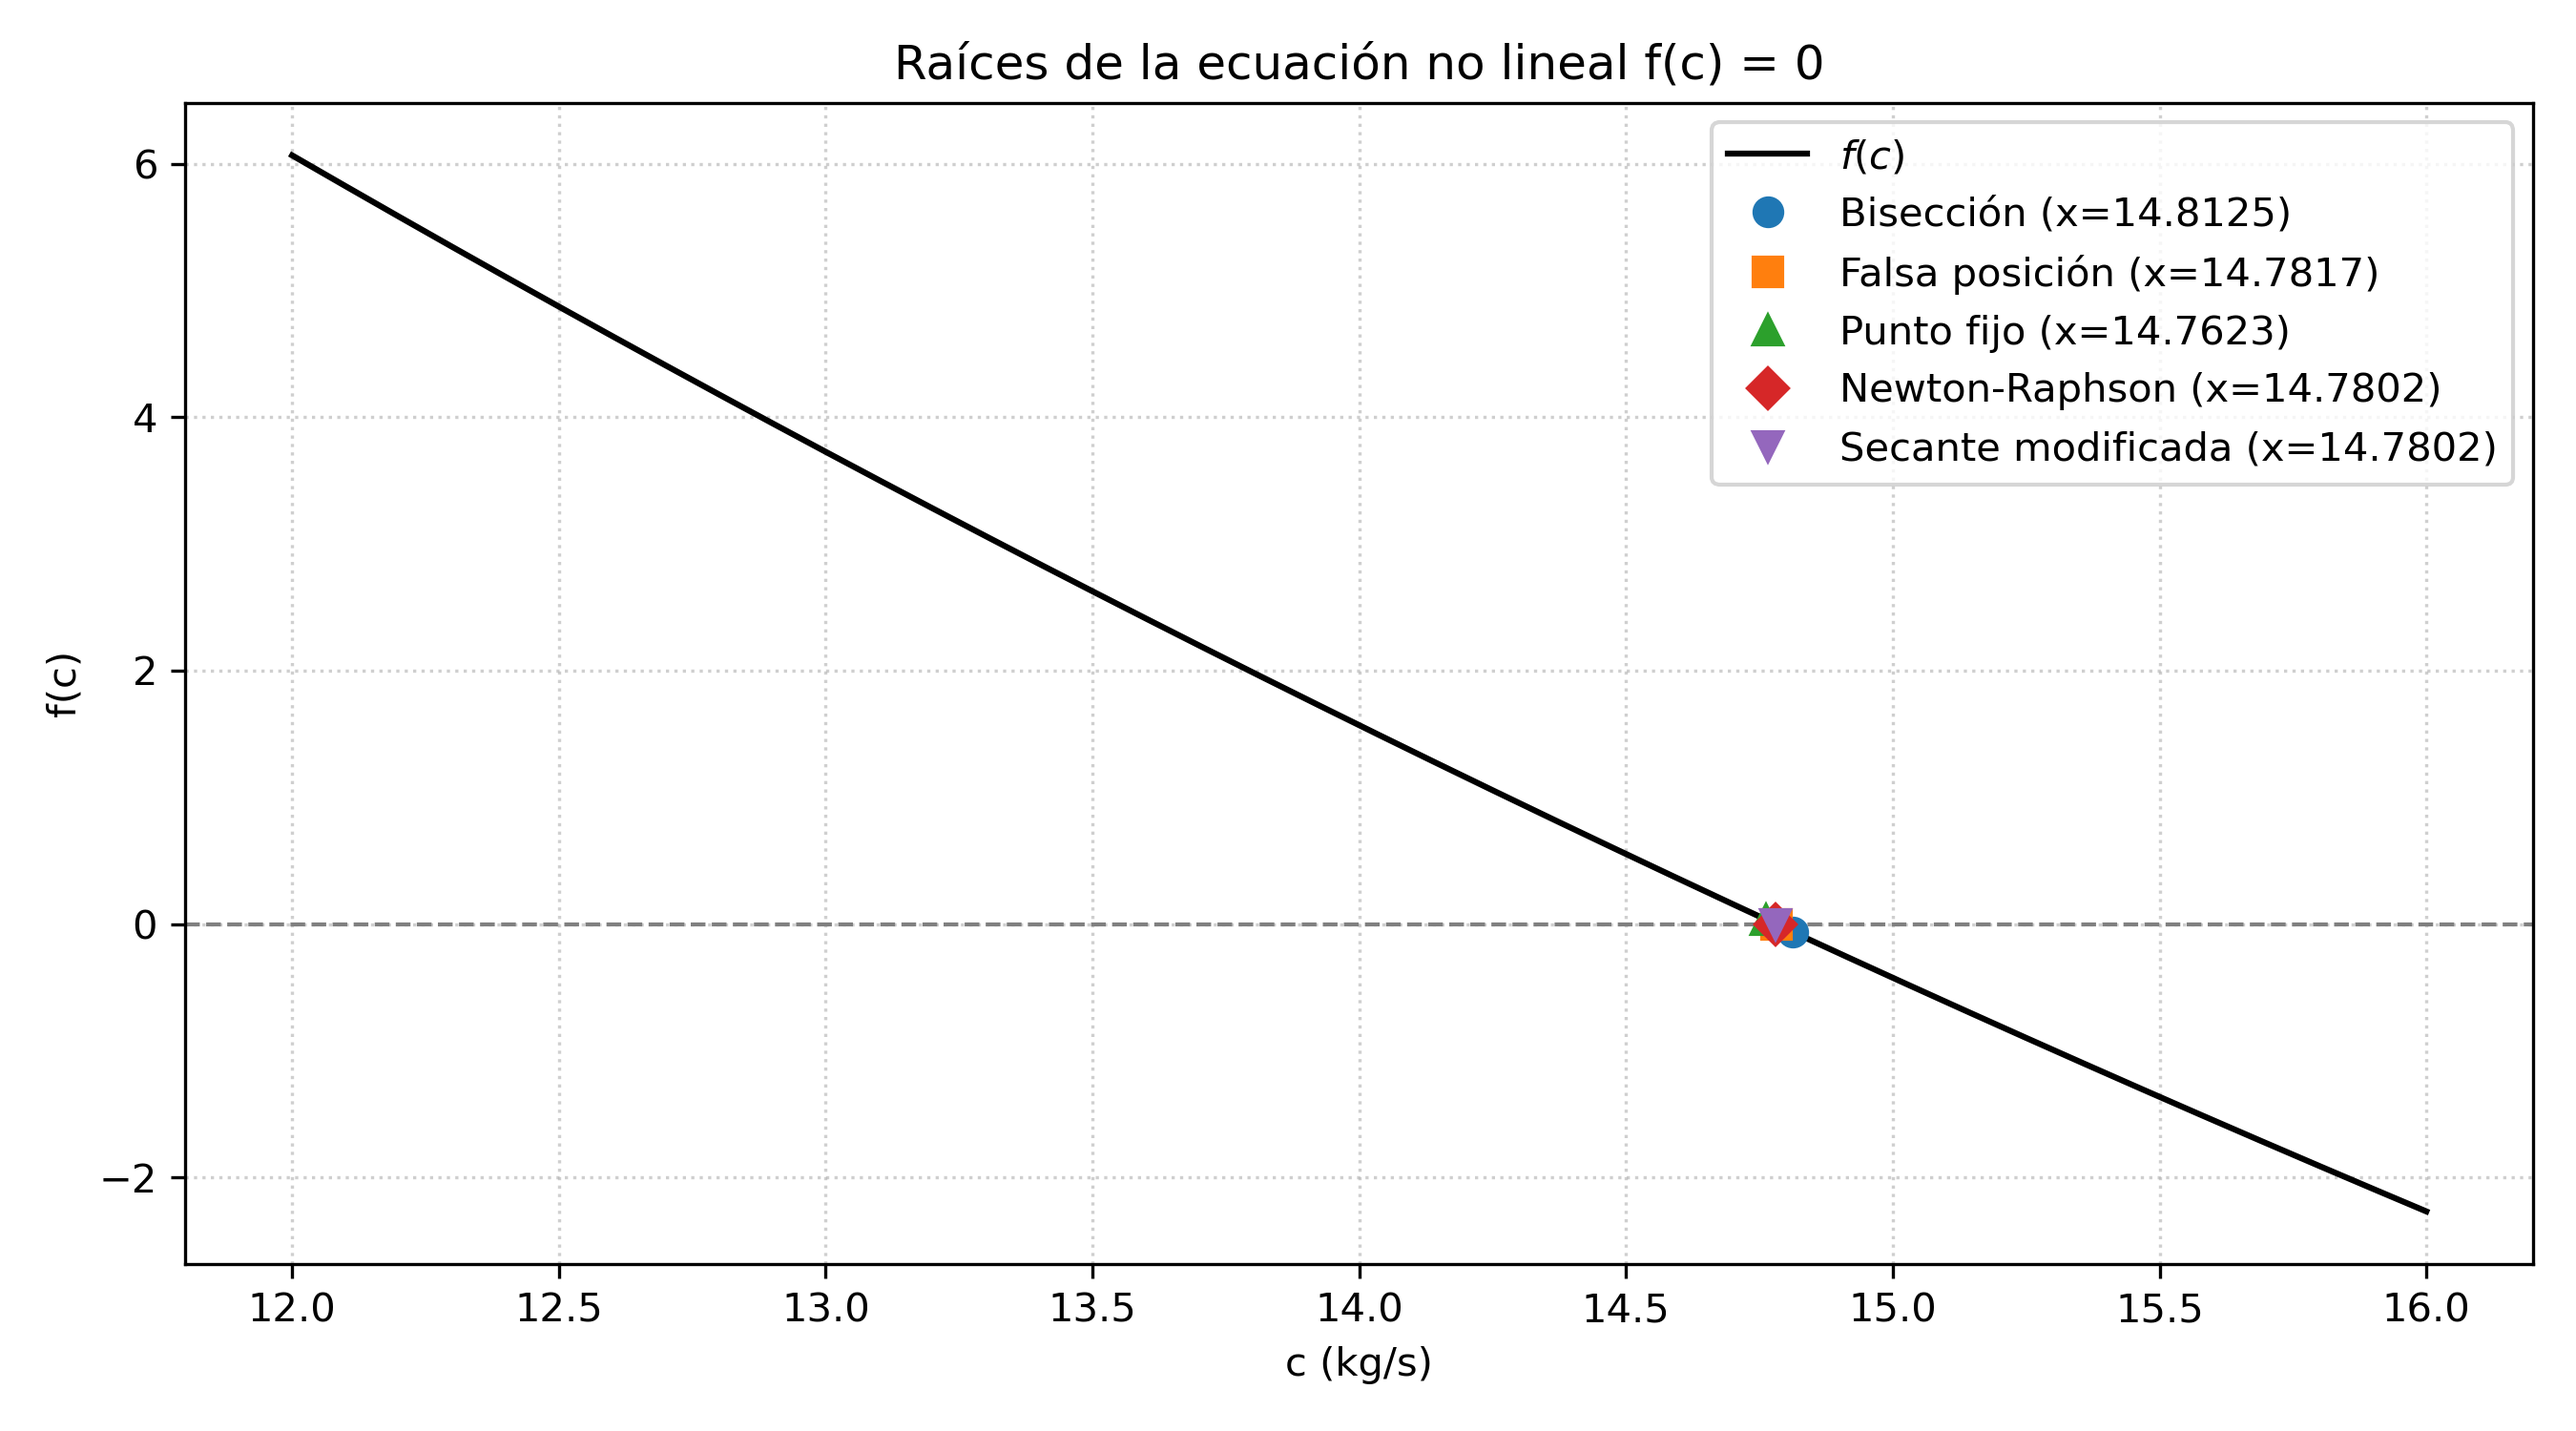
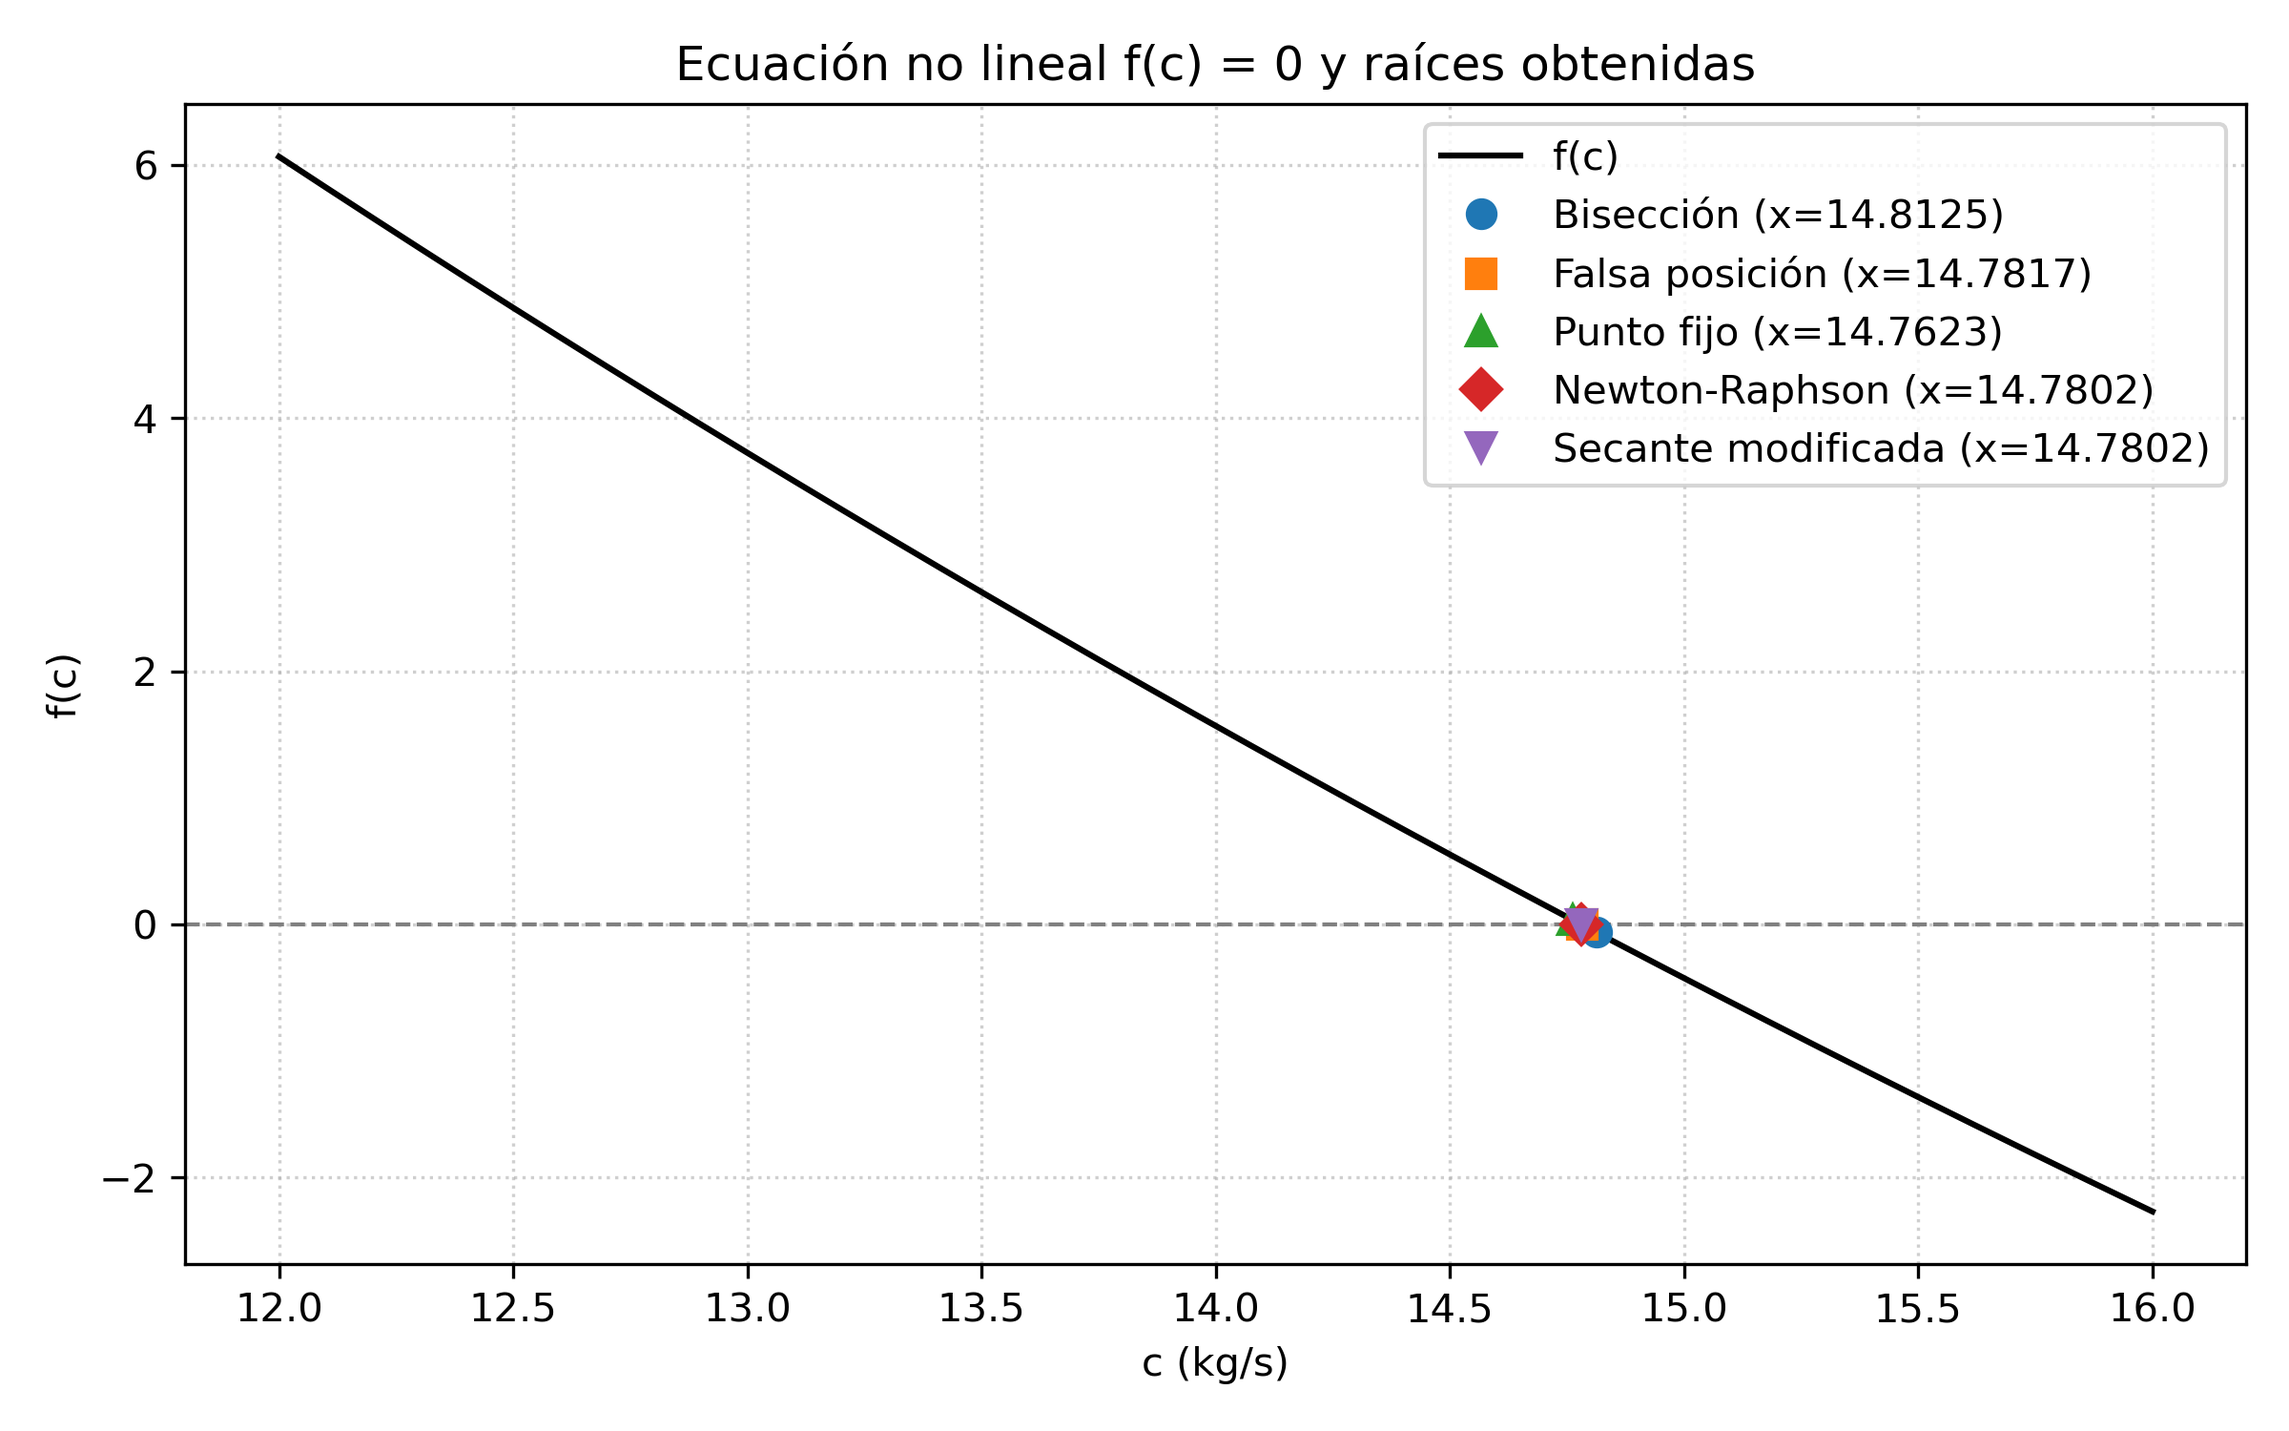
change

diff --git a/practica2/raices.py b/practica2/raices.py
@@ -6,13 +6,9 @@ por método y un resumen; las tablas deben coincidir, cifra por cifra, con las
 de raices.m, raices.c y las de las láminas.
 
 Python es la herramienta de verificación del curso: al final compara contra
-scipy.optimize.brentq y genera las gráficas. Las gráficas faltan:
-complete la función graficar().
+scipy.optimize.brentq y genera las gráficas.
 
-UEA 1151039 · Métodos Numéricos en Ingeniería · UAM Azcapotzalco · 26-O
-
-Dentro del contenedor, en la carpeta practica2:
-    python3 raices.py
+UEA 1151039 · Métodos Numéricos en Ingeniería · UAM Azcapotzalco
 """
 import math
 import os
@@ -205,22 +201,19 @@ def graficar(resultados, carpeta="img"):
     os.makedirs(carpeta, exist_ok=True)
 
     # -------------------------------------------------------------------------
-    # Figura 1: Gráfica de la función f(x) y las raíces encontradas
+    # Figura 1: f(c) y raíces encontradas
     # -------------------------------------------------------------------------
-    plt.figure(figsize=(9, 5))
+    plt.figure(figsize=(8, 5))
 
-    # Muestreo continuo de f(c) en el intervalo [A, B]
     puntos = 400
     x_vals = [A + i * (B - A) / (puntos - 1) for i in range(puntos)]
     y_vals = [f(x) for x in x_vals]
 
-    # Línea base f(c) y eje y = 0
-    plt.plot(x_vals, y_vals, label=r"$f(c)$", color="black", linewidth=1.5)
+    plt.plot(x_vals, y_vals, label="f(c)", color="black", linewidth=1.5)
     plt.axhline(0, color="gray", linestyle="--", linewidth=1.0)
 
-    # Marcar la raíz obtenida por cada método
-    marcadores = ["o", "s", "^", "D", "v"]
-    for r, marker in zip(resultados, marcadores):
+    estilos_marcadores = ["o", "s", "^", "D", "v"]
+    for r, marker in zip(resultados, estilos_marcadores):
         plt.plot(
             r["x"],
             f(r["x"]),
@@ -232,7 +225,7 @@ def graficar(resultados, carpeta="img"):
 
     plt.xlabel("c (kg/s)")
     plt.ylabel("f(c)")
-    plt.title("Raíces de la ecuación no lineal f(c) = 0")
+    plt.title("Ecuación no lineal f(c) = 0 y raíces obtenidas")
     plt.grid(True, linestyle=":", alpha=0.6)
     plt.legend(loc="best")
     plt.tight_layout()
@@ -240,12 +233,11 @@ def graficar(resultados, carpeta="img"):
     plt.close()
 
     # -------------------------------------------------------------------------
-    # Figura 2: Gráfica de convergencia (Error aproximado ea % vs Iteración k)
+    # Figura 2: Convergencia de error relativo aproximado ea (%) vs iteración k
     # -------------------------------------------------------------------------
-    plt.figure(figsize=(9, 5))
+    plt.figure(figsize=(8, 5))
 
-    for r, marker in zip(resultados, marcadores):
-        # Filtrar iteraciones válidas donde ea no sea None ni 0 (para escala log)
+    for r, marker in zip(resultados, estilos_marcadores):
         k_vals = []
         ea_vals = []
         for item in r["historia"]:
@@ -264,7 +256,6 @@ def graficar(resultados, carpeta="img"):
                 label=r["nombre"]
             )
 
-    # Línea horizontal de tolerancia objetivo
     plt.axhline(
         TOL,
         color="red",
@@ -274,15 +265,13 @@ def graficar(resultados, carpeta="img"):
     )
 
     plt.xlabel("Iteración (k)")
-    plt.ylabel(r"Error relativo aproximado $e_a$ (%)")
+    plt.ylabel("Error relativo aproximado $e_a$ (%)")
     plt.title("Convergencia del error aproximado por método")
     plt.grid(True, which="both", linestyle=":", alpha=0.6)
     plt.legend(loc="best")
     plt.tight_layout()
     plt.savefig(os.path.join(carpeta, "convergencia.png"), dpi=300)
     plt.close()
-
-    print(f"Figuras guardadas exitosamente en la carpeta '{carpeta}/'.")
 
 
 def main():

diff --git a/practica2/ecuaciones.py b/practica2/ecuaciones.py
@@ -1,0 +1,96 @@
+# ======================== BLOQUE DEL PROBLEMA ========================
+# Ecuación 7 · Computación · Entrada que un algoritmo n log₂ n procesa con 10⁶ operaciones
+
+DESCRIPCION = 'f(n) = n log2(n) - 1e6'
+DESCR_G = 'g(n) = 1e6 / log2(n)'
+
+OPS = 1000000.0   # operaciones disponibles
+
+A, B = 10000.0, 100000.0   # intervalo de los métodos cerrados
+X0 = 50000.0         # inicio de los métodos abiertos
+DELTA = 1.0      # incremento de la secante modificada
+TOL = 0.5           # tolerancia: ea en %
+NMAX = 50           # máximo de iteraciones
+
+
+def f(x):
+    """La función cuya raíz se busca."""
+    return x*math.log2(x) - OPS
+
+
+def fp(x):
+    """Su derivada, para Newton-Raphson."""
+    return math.log2(x) + 1/math.log(2)
+
+
+def g(x):
+    """Despeje x = g(x) para punto fijo."""
+    return OPS/math.log2(x)
+
+# =====================================================================
+
+# ======================== BLOQUE DEL PROBLEMA ========================
+# Ecuación 8 · Computación · Trazado de rayos: dónde choca un rayo con un cubo redondeado
+
+DESCRIPCION = 'f(t) = X^4 + Y^4 + Z^4 - 1,  (X, Y, Z) = (-2, -0.6, -0.8) + t (0.8, 0.36, 0.48)'
+DESCR_G = 'g(t) = t + f(t) / 4'
+
+OX = -2.0   # origen del rayo
+OY = -0.6
+OZ = -0.8
+DX = 0.8   # dirección del rayo, unitaria
+DY = 0.36
+DZ = 0.48
+
+A, B = 0.0, 1.5   # intervalo de los métodos cerrados
+X0 = 0.5         # inicio de los métodos abiertos
+DELTA = 0.01      # incremento de la secante modificada
+TOL = 0.5           # tolerancia: ea en %
+NMAX = 50           # máximo de iteraciones
+
+
+def f(x):
+    """La función cuya raíz se busca."""
+    return (OX + DX*x)*(OX + DX*x)*(OX + DX*x)*(OX + DX*x) + (OY + DY*x)*(OY + DY*x)*(OY + DY*x)*(OY + DY*x) + (OZ + DZ*x)*(OZ + DZ*x)*(OZ + DZ*x)*(OZ + DZ*x) - 1
+
+
+def fp(x):
+    """Su derivada, para Newton-Raphson."""
+    return 4*DX*(OX + DX*x)*(OX + DX*x)*(OX + DX*x) + 4*DY*(OY + DY*x)*(OY + DY*x)*(OY + DY*x) + 4*DZ*(OZ + DZ*x)*(OZ + DZ*x)*(OZ + DZ*x)
+
+
+def g(x):
+    """Despeje x = g(x) para punto fijo."""
+    return x + f(x)/4
+
+# =====================================================================
+# ======================== BLOQUE DEL PROBLEMA ========================
+# Ecuación 9 · Computación · Canal binario simétrico: probabilidad de error con capacidad de 0.5 bits
+
+DESCRIPCION = 'f(p) = -p log2(p) - (1 - p) log2(1 - p) - (1 - C),  C = 0.5'
+DESCR_G = 'g(p) = (1 - C + (1 - p) log2(1 - p)) / (-log2(p))'
+
+CAP = 0.5   # capacidad del canal, bits por uso
+
+A, B = 0.01, 0.4   # intervalo de los métodos cerrados
+X0 = 0.2         # inicio de los métodos abiertos
+DELTA = 0.001      # incremento de la secante modificada
+TOL = 0.5           # tolerancia: ea en %
+NMAX = 50           # máximo de iteraciones
+
+
+def f(x):
+    """La función cuya raíz se busca."""
+    return -x*math.log2(x) - (1 - x)*math.log2(1 - x) - (1 - CAP)
+
+
+def fp(x):
+    """Su derivada, para Newton-Raphson."""
+    return math.log2(1 - x) - math.log2(x)
+
+
+def g(x):
+    """Despeje x = g(x) para punto fijo."""
+    return (1 - CAP + (1 - x)*math.log2(1 - x))/(-math.log2(x))
+
+# =====================================================================

diff --git a/practica2/ecuaciones.c b/practica2/ecuaciones.c
@@ -1,0 +1,99 @@
+#include <math.h>
+
+/* ===================================================================== */
+/* SELECCIÓN DE ECUACIÓN                                                 */
+/* Cambia el número a 7, 8 o 9 para elegir la ecuación a procesar:      */
+/* ===================================================================== */
+#ifndef ECUACION
+#define ECUACION 7   /* Valor por defecto: 7, 8 o 9 */
+#endif
+
+
+#if ECUACION == 7
+/* ======================== ECUACIÓN 7 ======================== */
+/* Entrada que un algoritmo n log₂ n procesa con 10⁶ operaciones */
+
+#define DESCRIPCION "f(n) = n log2(n) - 1e6"
+#define DESCR_G     "g(n) = 1e6 / log2(n)"
+
+static const double OPS = 1000000.0;
+static const double A = 10000.0, B = 100000.0;
+static const double X0    = 50000.0;
+static const double DELTA = 1.0;
+static const double TOL   = 0.5;
+#define NMAX 50
+
+static double f(double x) {
+    return x * log2(x) - OPS;
+}
+
+static double fp(double x) {
+    return log2(x) + 1.0 / log(2.0);
+}
+
+static double g(double x) {
+    return OPS / log2(x);
+}
+
+
+#elif ECUACION == 8
+/* ======================== ECUACIÓN 8 ======================== */
+/* Trazado de rayos: dónde choca un rayo con un cubo redondeado */
+
+#define DESCRIPCION "f(t) = X^4 + Y^4 + Z^4 - 1"
+#define DESCR_G     "g(t) = t + f(t) / 4"
+
+static const double OX = -2.0, OY = -0.6, OZ = -0.8;
+static const double DX = 0.8, DY = 0.36, DZ = 0.48;
+
+static const double A = 0.0, B = 1.5;
+static const double X0    = 0.5;
+static const double DELTA = 0.01;
+static const double TOL   = 0.5;
+#define NMAX 50
+
+static double f(double x) {
+    return (OX + DX*x)*(OX + DX*x)*(OX + DX*x)*(OX + DX*x) +
+           (OY + DY*x)*(OY + DY*x)*(OY + DY*x)*(OY + DY*x) +
+           (OZ + DZ*x)*(OZ + DZ*x)*(OZ + DZ*x)*(OZ + DZ*x) - 1.0;
+}
+
+static double fp(double x) {
+    return 4.0*DX*(OX + DX*x)*(OX + DX*x)*(OX + DX*x) +
+           4.0*DY*(OY + DY*x)*(OY + DY*x)*(OY + DY*x) +
+           4.0*DZ*(OZ + DZ*x)*(OZ + DZ*x)*(OZ + DZ*x);
+}
+
+static double g(double x) {
+    return x + f(x) / 4.0;
+}
+
+
+#elif ECUACION == 9
+/* ======================== ECUACIÓN 9 ======================== */
+/* Canal binario simétrico: probabilidad de error con capacidad de 0.5 */
+
+#define DESCRIPCION "f(p) = -p log2(p) - (1-p) log2(1-p) - 0.5"
+#define DESCR_G     "g(p) = (1 - C + (1 - p) log2(1 - p)) / (-log2(p))"
+
+static const double CAP = 0.5;
+
+static const double A = 0.01, B = 0.4;
+static const double X0    = 0.2;
+static const double DELTA = 0.001;
+static const double TOL   = 0.5;
+#define NMAX 50
+
+static double f(double x) {
+    return -x*log2(x) - (1.0 - x)*log2(1.0 - x) - (1.0 - CAP);
+}
+
+static double fp(double x) {
+    return log2(1.0 - x) - log2(x);
+}
+
+static double g(double x) {
+    return (1.0 - CAP + (1.0 - x)*log2(1.0 - x)) / (-log2(x));
+}
+
+#endif
